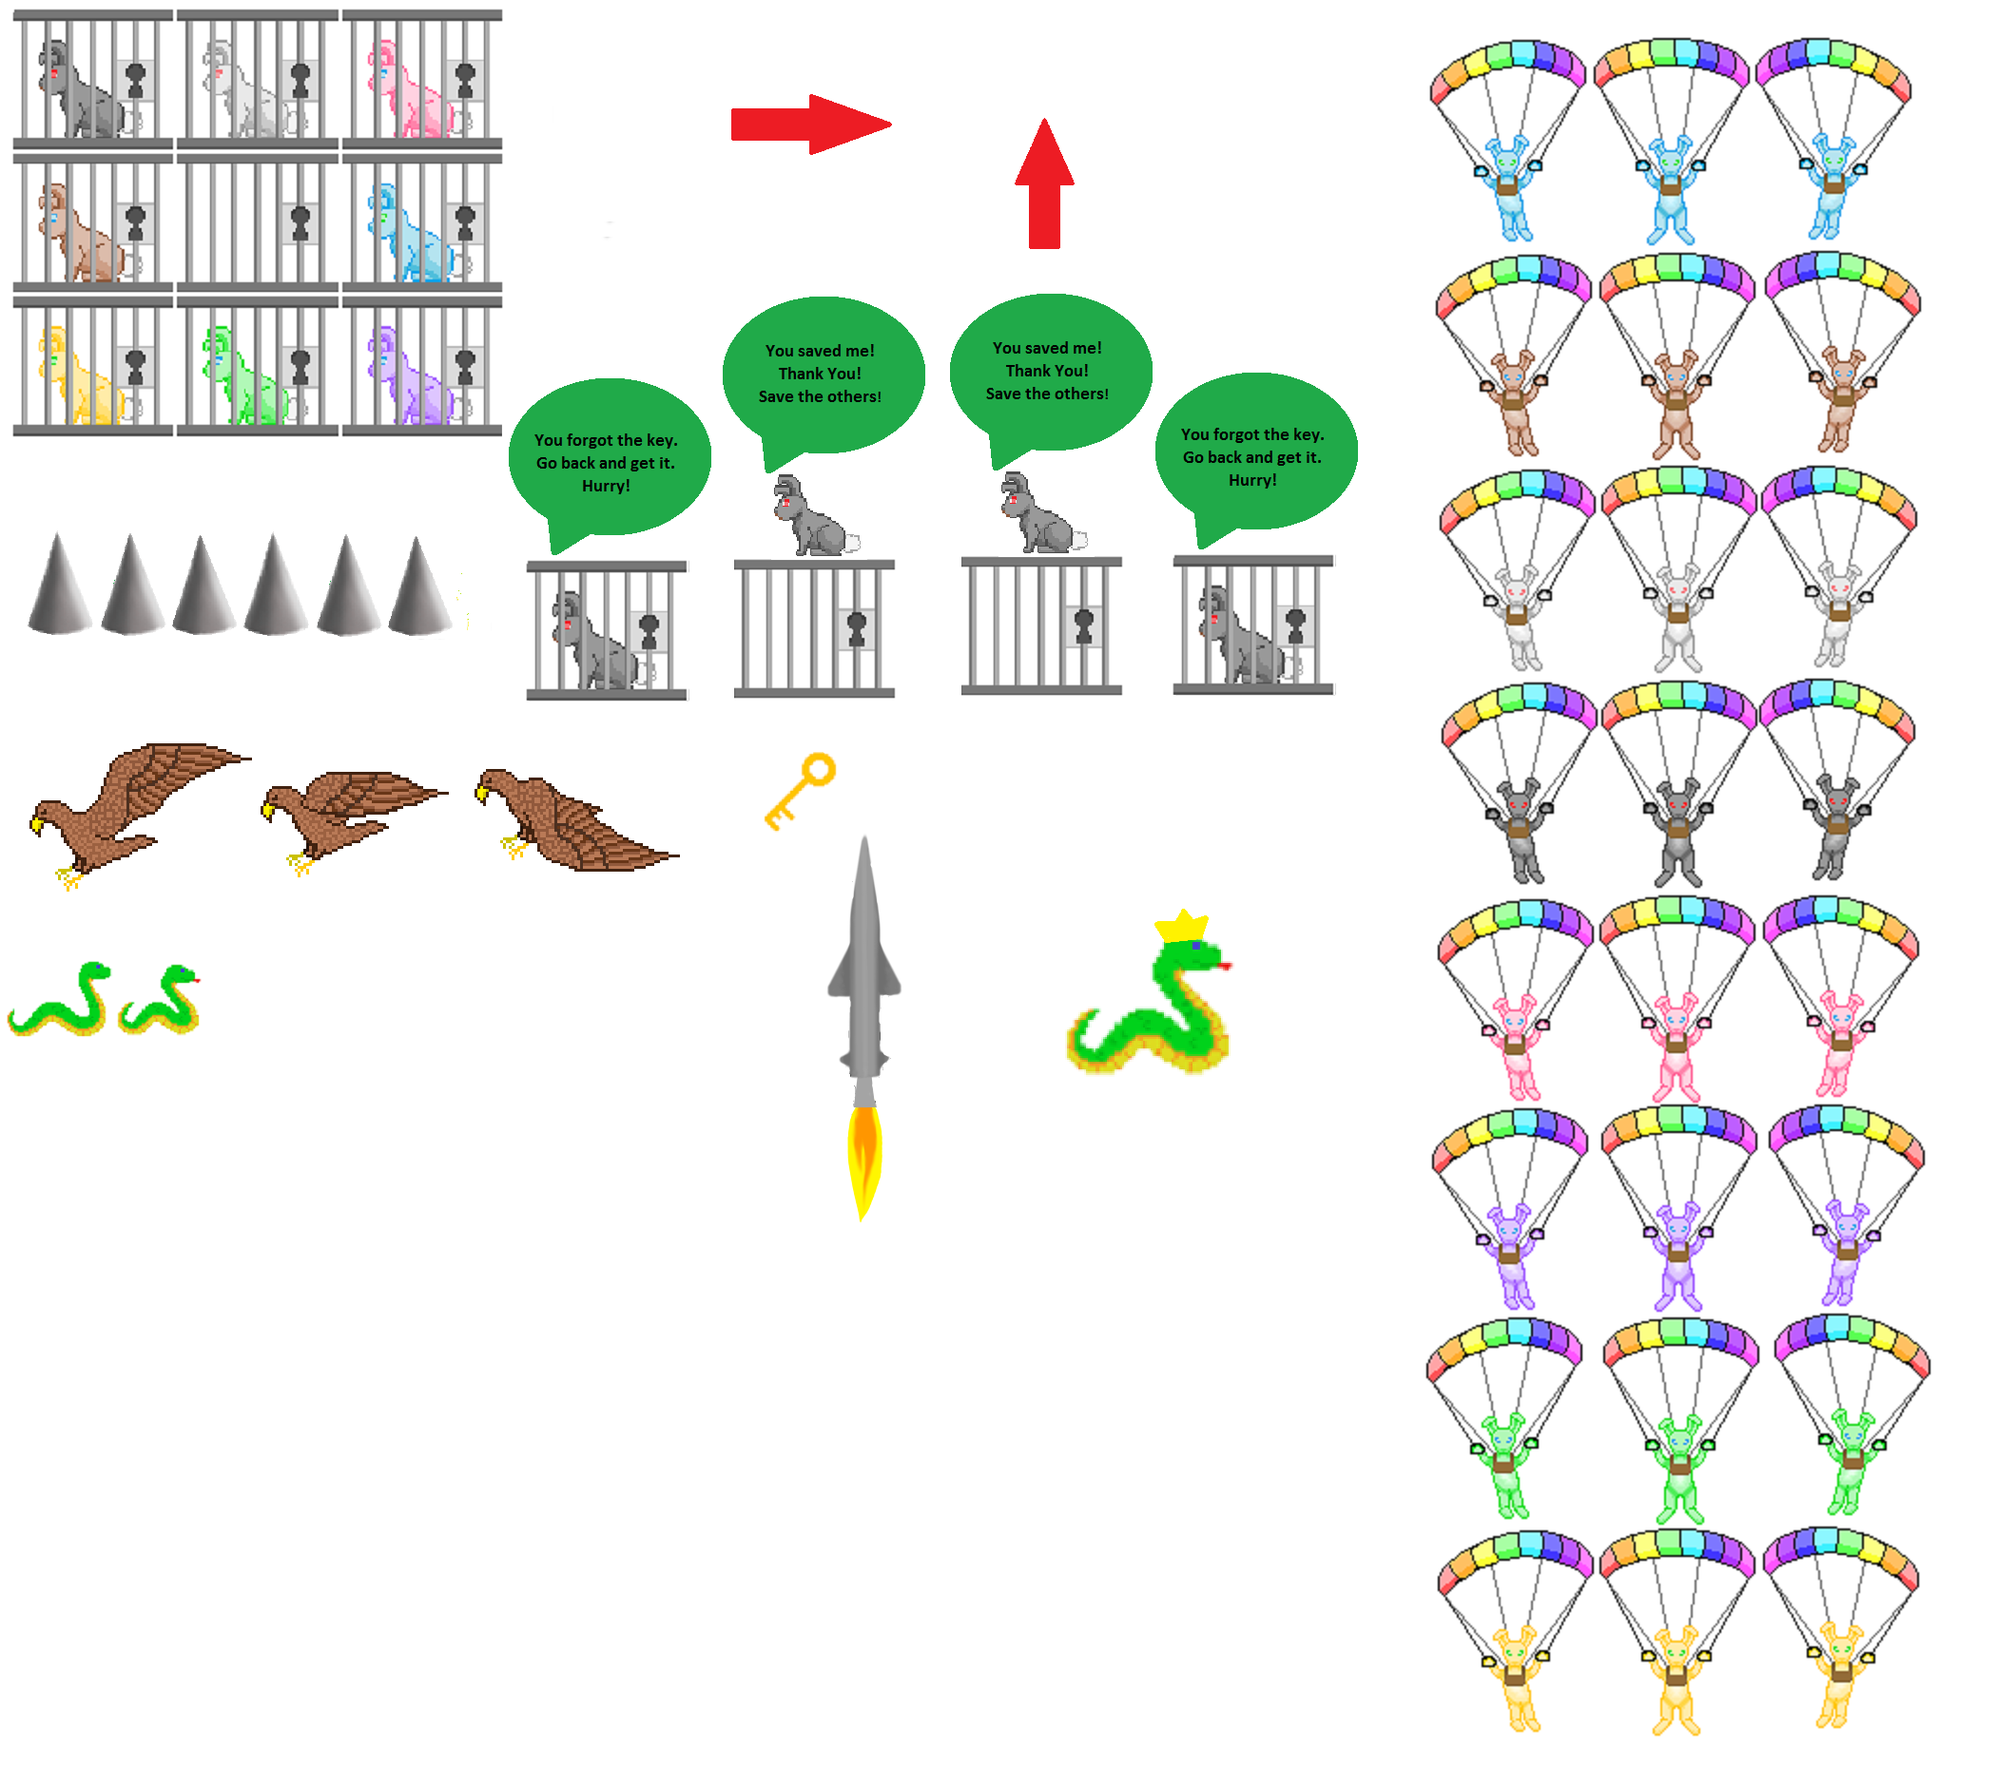
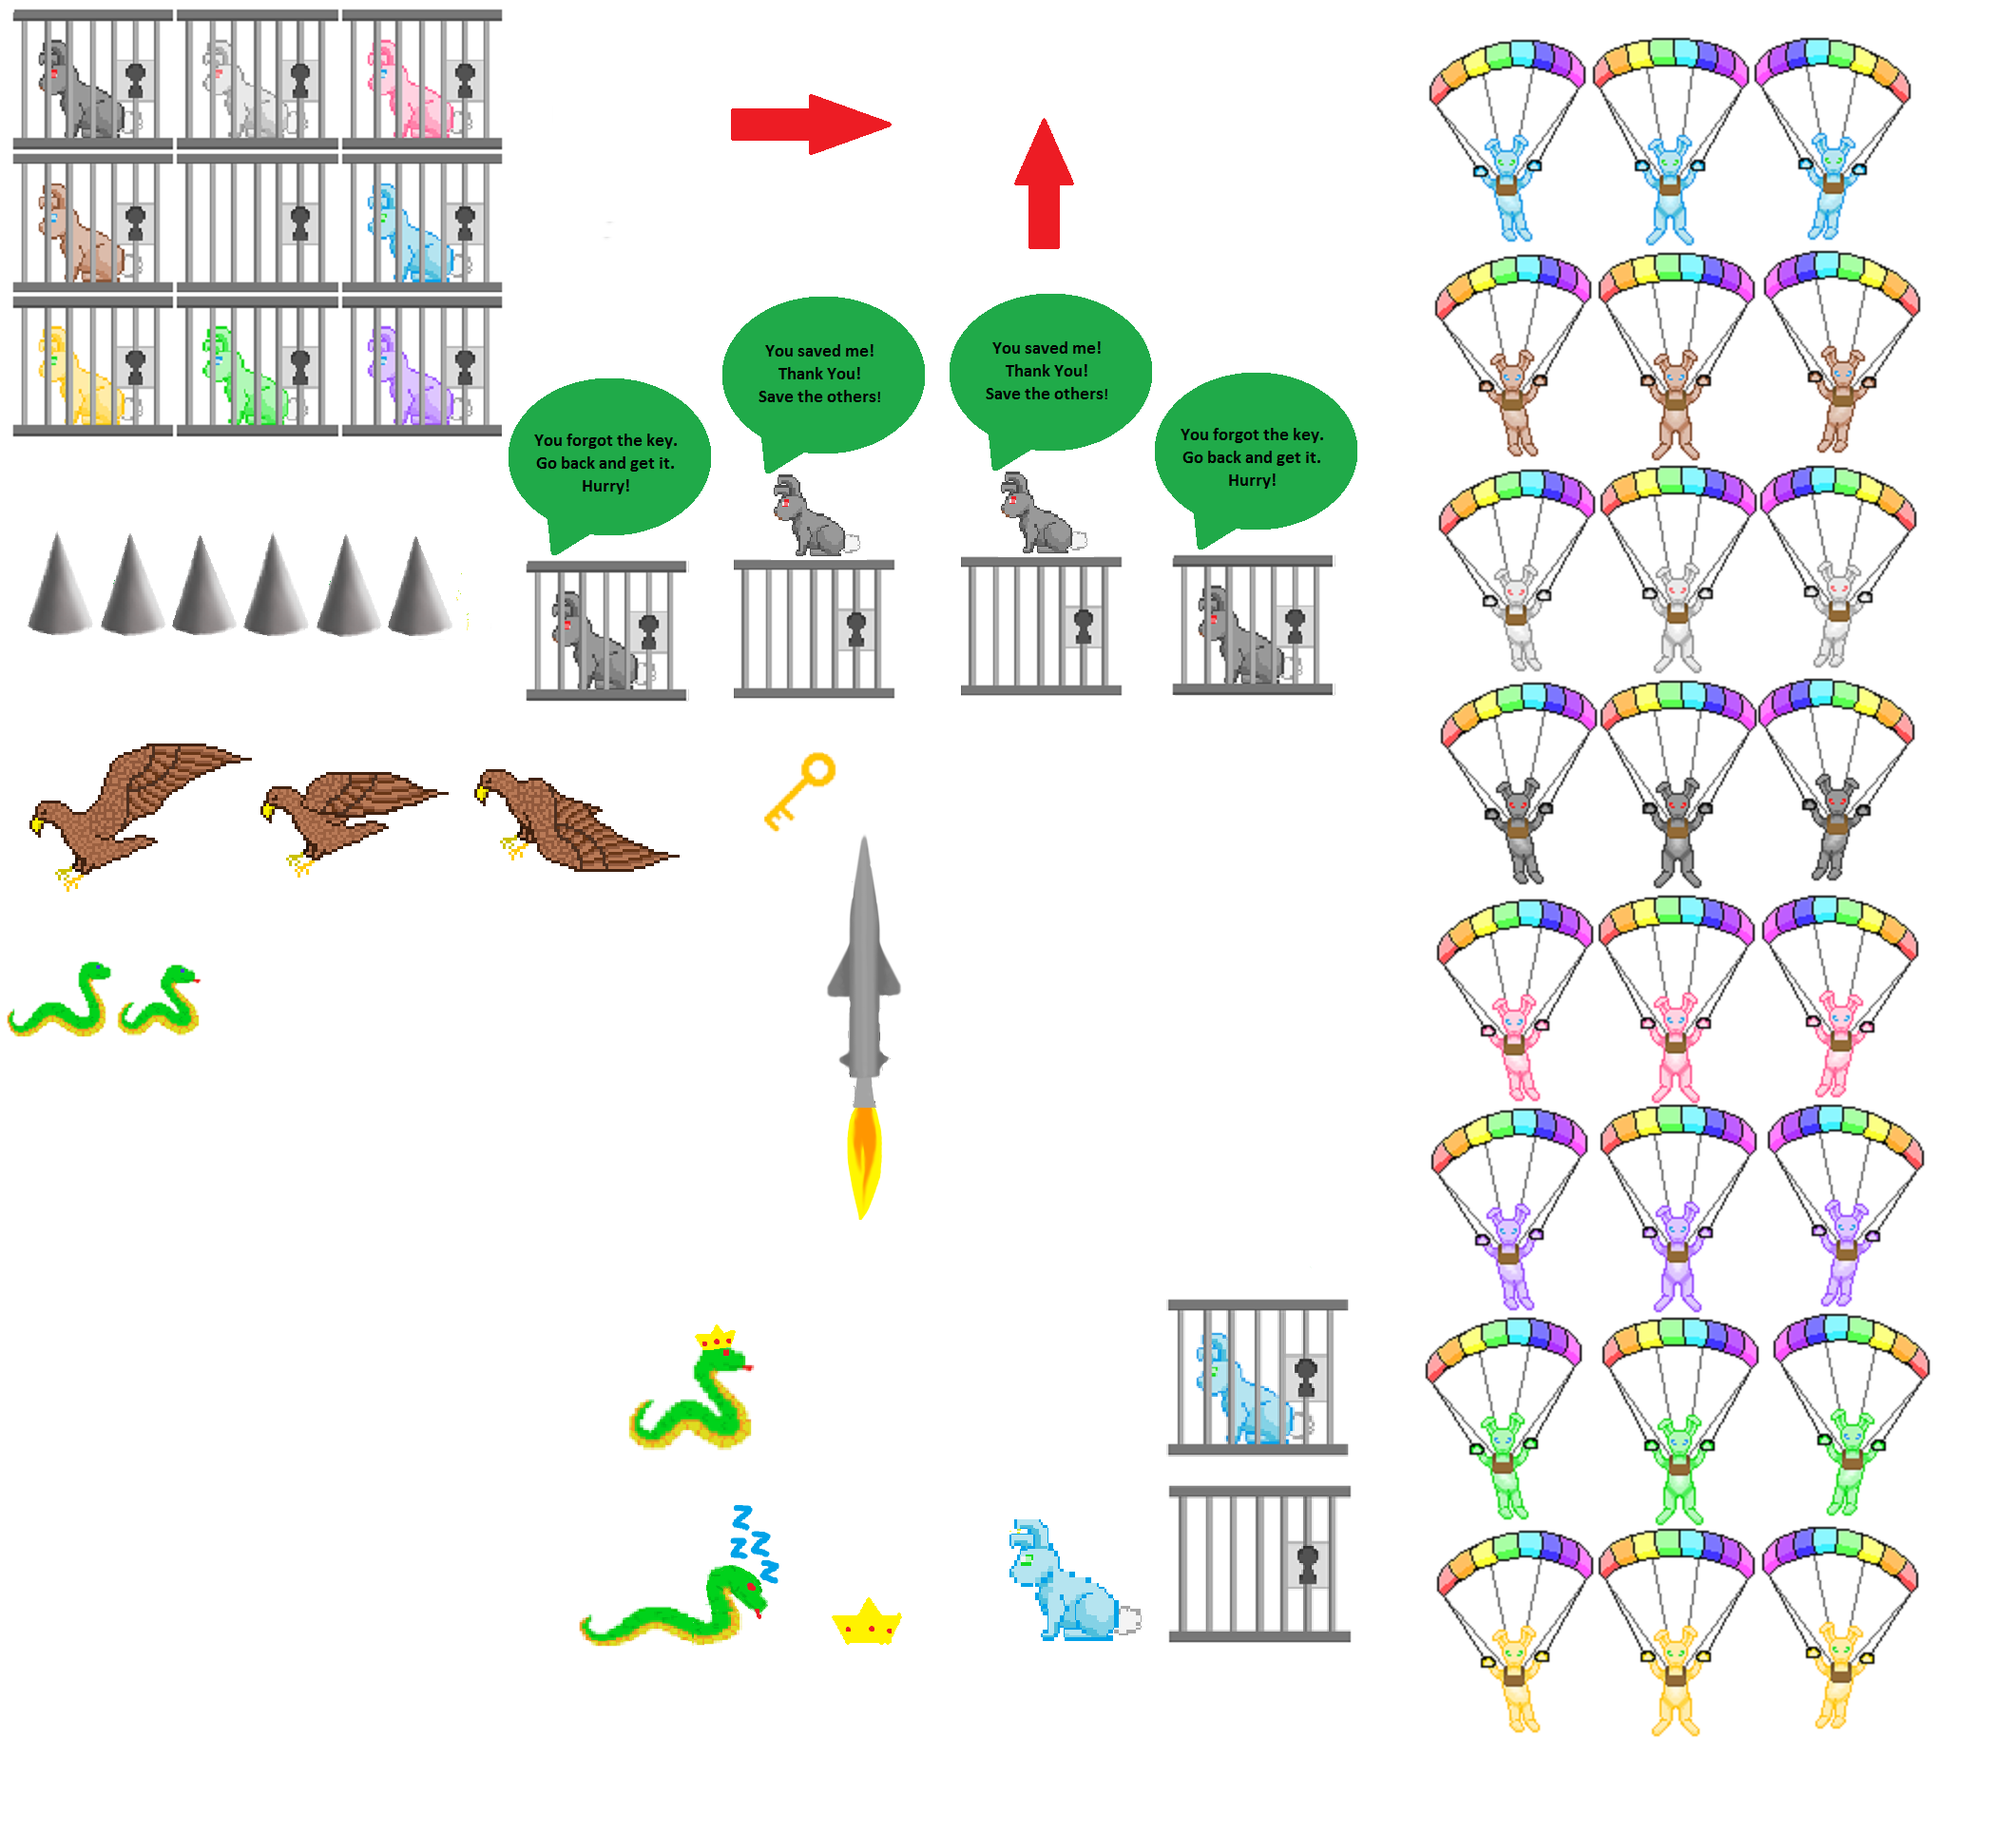
bvb

diff --git a/Level_5.py b/Level_5.py
@@ -16,7 +16,7 @@ def level_five(color):
     mouse_x = 0
     mouse_y = 0
     floor_x = 0 
-    
+    control = True
     missle_list = pygame.sprite.Group() 
     active_sprite_list = pygame.sprite.Group()
     snake_list =pygame.sprite.Group()
@@ -26,9 +26,9 @@ def level_five(color):
     
     missle_speed = -3 
     if Constants.difficulty == "Easy":
-        missle_speed = -8
+        missle_speed = -14
     elif Constants.difficulty == "Medium":
-        missle_speed = -12
+        missle_speed = -17
     else:
         missle_speed = -18
 
@@ -69,7 +69,8 @@ def level_five(color):
     play_counter = 0
     pygame.mixer.music.load("BoxCat_Games_-_10_-_Epic_Song.wav")
     pygame.mixer.music.play(-1,0.0)
-    
+    frame_count = 0
+    frame_rate = 60 
     clock = pygame.time.Clock()
     done = False
     
@@ -80,53 +81,54 @@ def level_five(color):
     while not done:
     
         for event in pygame.event.get():
-            
-            if event.type == pygame.KEYDOWN:
-                
-                if event.key == pygame.K_LEFT:
-                    player.go_left()
+            if control == True:
+                if event.type == pygame.KEYDOWN:
                     
-                elif event.type == pygame.MOUSEBUTTONDOWN:
-                    if mouse_x >= 600:
-                        done = True
-                elif event.key == pygame.K_RIGHT:
-                    player.go_right()
-                     
-                    
+                    if event.key == pygame.K_LEFT:
+                        player.go_left()
                         
-            elif event.type == pygame.KEYUP:
-                if event.key == pygame.K_LEFT and player.change_x < 0:
-                    player.stop()
-                    player.direction = "S"
-                    background_y_change = 0 
-                elif event.key == pygame.K_RIGHT:
-                    player.stop()
-                    player.direction = "S"
-                    background_y_change = 0 
-                elif event.type == pygame.QUIT:
-                    done = True 
-            elif event.type == pygame.MOUSEBUTTONDOWN:
-                if mouse_x >= 1199 and mouse_x <= 1249 and mouse_y >= 649 and mouse_y <= 778:
-                    done = True
-                    raise SystemExit
-                if mouse_x >= 598 and mouse_x <= 1100 and mouse_y >= 400 and mouse_y <= 460:
-                    print("hit")
-                    Constants.game_over = False
-                    screen.blit(background_image,[0, background_y])
-                    player.reset()
-                    missle.reset()
-                    snake_king.reset()
-                    background_y = 0
-                    
-                elif mouse_x >= 12 and mouse_x <= 97 and mouse_y >= 675 and mouse_y <= 775:
-                        play_counter += 1 
-                        if play_counter % 2 != 0:
-                            pygame.mixer.music.pause()
-                            sound_button = unmute_button
-                        else:
-                            pygame.mixer.music.play()
-                            sound_button = mute_button    
-                    
+                    elif event.type == pygame.MOUSEBUTTONDOWN:
+                        if mouse_x >= 600:
+                            done = True
+                    elif event.key == pygame.K_RIGHT:
+                        player.go_right()
+                         
+                        
+                            
+                elif event.type == pygame.KEYUP:
+                    if event.key == pygame.K_LEFT and player.change_x < 0:
+                        player.stop()
+                        player.direction = "S"
+                        background_y_change = 0 
+                    elif event.key == pygame.K_RIGHT:
+                        player.stop()
+                        player.direction = "S"
+                        background_y_change = 0 
+                    elif event.type == pygame.QUIT:
+                        done = True 
+                elif event.type == pygame.MOUSEBUTTONDOWN:
+                    if mouse_x >= 1199 and mouse_x <= 1249 and mouse_y >= 649 and mouse_y <= 778:
+                        done = True
+                        raise SystemExit
+                    if mouse_x >= 598 and mouse_x <= 1100 and mouse_y >= 400 and mouse_y <= 460:
+                        print("hit")
+                        Constants.game_over = False
+                        screen.blit(background_image,[0, background_y])
+                        player.reset()
+                        missle.reset()
+                        snake_king.reset()
+                        background_y = 0
+                        player.gravity = False
+                        
+                    elif mouse_x >= 12 and mouse_x <= 97 and mouse_y >= 675 and mouse_y <= 775:
+                            play_counter += 1 
+                            if play_counter % 2 != 0:
+                                pygame.mixer.music.pause()
+                                sound_button = unmute_button
+                            else:
+                                pygame.mixer.music.play()
+                                sound_button = mute_button    
+                        
                     
 
             
@@ -134,32 +136,44 @@ def level_five(color):
         print(snake_king.rect.y)   
         screen.fill(Constants.WHITE)
         screen.blit(background_image, [0, background_y])
-        player.rect.y += .5
+        
         
         if player.rect.x <=0:
             player.rect.x = 0
-        elif player.rect.x >= width - 50:
-            player.rect.x = width - 50
+        elif player.rect.x >= width - 100:
+            player.rect.x = width - 100
         #quit
         screen.blit(text11, [1200,650])    
         pos = pygame.mouse.get_pos()
+        
         if background_y > -8000:
-            background_y -= 12
-            snake_king.change_y -= 12
+            background_y -= 13
+            snake_king.change_y -= 13
         else:
             missle.rect.x = 3000
+            player.change_x = 0
+            control = False
+            player.rect.x = 400
+            player.change_y = 3
+            player.change_x = 1
+            
+            
         if floor_x > 0:
             floor_x = -7
+            
         mouse_x = pos[0]
         mouse_y = pos[1]    
             
         block_hit_list = pygame.sprite.spritecollide(player,missle_list, False)
         for block in block_hit_list:
+            snake_king.change_y = 0
             Constants.game_over = True
             
         block_hit_list = pygame.sprite.spritecollide(player,snake_list, False)
         for block in block_hit_list:
-            Constants.game_over = True
+            snake_king.die()
+            
+        
         
         if player.rect.y >= 768:
             Constants.game_over = True

diff --git a/Player.py b/Player.py
@@ -18,7 +18,10 @@ class Snake_king(pygame.sprite.Sprite):
         super().__init__()
  
         sprite_sheet = SpriteSheet("Caged Bunnies.png")
-        image = sprite_sheet.get_image(1120, 954, 181, 177)
+        image = sprite_sheet.get_image(659, 1395,763, 173)
+        image.set_colorkey(Constants.WHITE)
+        self.king.append(image)
+        image = sprite_sheet.get_image(595, 1561, 831, 173)
         image.set_colorkey(Constants.WHITE)
         self.king.append(image)
         
@@ -29,8 +32,9 @@ class Snake_king(pygame.sprite.Sprite):
     def update(self):
         self.rect.y = self.y + self.change_y
     def reset(self):
-        self.rect.x = self.start_x
-        self.rect.y = self.start_y
+        self.change_y = 0
+    def die(self):
+        self.image = self.king[1]
     
         
 class Missle(pygame.sprite.Sprite):
@@ -75,7 +79,7 @@ class Bird(pygame.sprite.Sprite):
         self.y = y
         self.start_x = x
         self.start_y = y
-        self.change_x = -3
+        self.change_x = 0
         self.change_y = 0
         
         super().__init__()
@@ -731,7 +735,7 @@ class Player_Falling(pygame.sprite.Sprite):
     walking_frames_l = []
     walking_frames_r = []
     walking_frames_s = []
-   
+    gravity = False
     brown_bunny = ([1509,258,167,225],[1680,260,167,224],[1850,258,174,215])
     black_bunny = ([1500,711,175,225],[1684,709,166,226],[1850,707,164,221])
     green_bunny = ([1500,1379,170,226],[1684,1381,171,225],[1861,1379,173,220])
@@ -778,8 +782,6 @@ class Player_Falling(pygame.sprite.Sprite):
 
     def update(self):
         
-        
-        self.calc_grav()
         self.rect.y += self.change_y
         self.rect.x += self.change_x
         pos = self.rect.x 
@@ -809,10 +811,7 @@ class Player_Falling(pygame.sprite.Sprite):
             
         block_hit_list = pygame.sprite.spritecollide(self, self.spike_list, False)
         for block in block_hit_list:
-            
             self.change_x = 0
-           
- 
             # Stop our vertical movement
             self.change_y = 0
             

diff --git a/Main_Game.py b/Main_Game.py
@@ -85,7 +85,7 @@ def Rabbit_Rescue():
  
     # Used to manage how fast the screen updates
     clock = pygame.time.Clock()
-    Constants.level = 4
+    Constants.level = 5
     # What screen we see and background
     background_image = pygame.image.load("Field.png")
     background_image2 = pygame.image.load("Field_old_look.png")
@@ -173,7 +173,7 @@ def Rabbit_Rescue():
                             Platform.platform_move_y = 0
                             level_five(color)
                         while(Constants.level == 5) and Constants.game_over == False:
-                            you_win()
+                            You_win()
                     elif mouse_x >= 398 and mouse_x <= 889 and mouse_y >= 450 and mouse_y <= 541:
                         print("and again setting")
                         screen_view = 4

diff --git a/You_win.py b/You_win.py
@@ -1,0 +1,4 @@
+import pygame
+def You_win():
+    
+    
